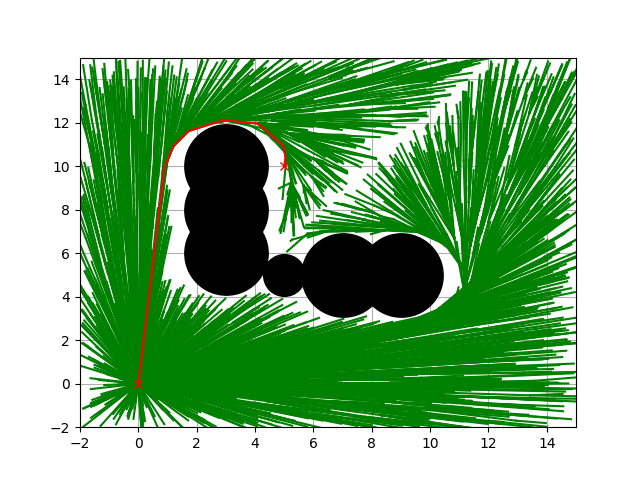
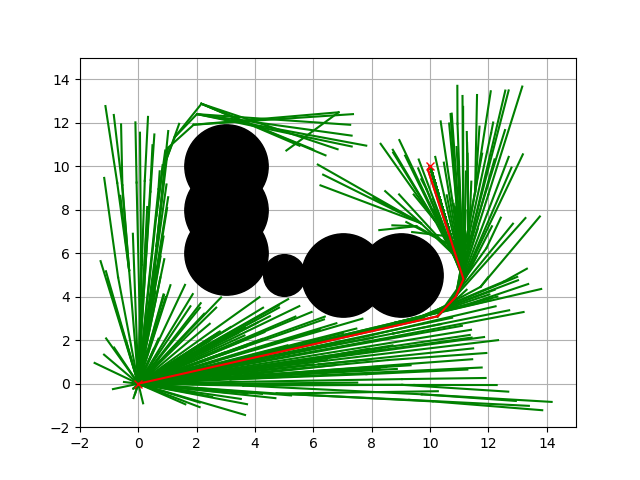
add document

diff --git a/PathPlanning/RRTstar/rrt_star.py b/PathPlanning/RRTstar/rrt_star.py
@@ -20,7 +20,7 @@ class RRT():
     """
 
     def __init__(self, start, goal, obstacleList, randArea,
-                 expandDis=0.5, goalSampleRate=20, maxIter=1000):
+                 expandDis=0.5, goalSampleRate=20, maxIter=500):
         """
         Setting Parameter
 
@@ -60,7 +60,7 @@ class RRT():
                 self.nodeList.append(newNode)
                 self.rewire(newNode, nearinds)
 
-            if animation:
+            if animation and i % 5 == 0:
                 self.DrawGraph(rnd)
 
         # generate coruse
@@ -103,14 +103,15 @@ class RRT():
         nearestNode = self.nodeList[nind]
         theta = math.atan2(rnd[1] - nearestNode.y, rnd[0] - nearestNode.x)
         newNode = Node(rnd[0], rnd[1])
-        currentDistance = math.sqrt( (rnd[1] - nearestNode.y) ** 2 +  (rnd[0] - nearestNode.x) ** 2)
+        currentDistance = math.sqrt(
+            (rnd[1] - nearestNode.y) ** 2 + (rnd[0] - nearestNode.x) ** 2)
         # Find a point within expandDis of nind, and closest to rnd
         if currentDistance <= self.expandDis:
             pass
         else:
             newNode.x = nearestNode.x + self.expandDis * math.cos(theta)
             newNode.y = nearestNode.y + self.expandDis * math.sin(theta)
-        newNode.cost = float("inf") 
+        newNode.cost = float("inf")
         newNode.parent = None
         return newNode
 
@@ -192,7 +193,7 @@ class RRT():
         return True
 
     def DrawGraph(self, rnd=None):
-        u"""
+        """
         Draw Graph
         """
         plt.clf()
@@ -256,17 +257,22 @@ def main():
     ]  # [x,y,size(radius)]
 
     # Set Initial parameters
-    rrt = RRT(start=[0, 0], goal=[5, 10],
+    rrt = RRT(start=[0, 0], goal=[10, 10],
               randArea=[-2, 15], obstacleList=obstacleList)
     path = rrt.Planning(animation=show_animation)
 
-    # Draw final path
-    if show_animation:
-        rrt.DrawGraph()
-        plt.plot([x for (x, y) in path], [y for (x, y) in path], '-r')
-        plt.grid(True)
-        plt.pause(0.01)  # Need for Mac
-        plt.show()
+    if path is None:
+        print("Cannot find path")
+    else:
+        print("found path!!")
+
+        # Draw final path
+        if show_animation:
+            rrt.DrawGraph()
+            plt.plot([x for (x, y) in path], [y for (x, y) in path], '-r')
+            plt.grid(True)
+            plt.pause(0.01)  # Need for Mac
+            plt.show()
 
 
 if __name__ == '__main__':